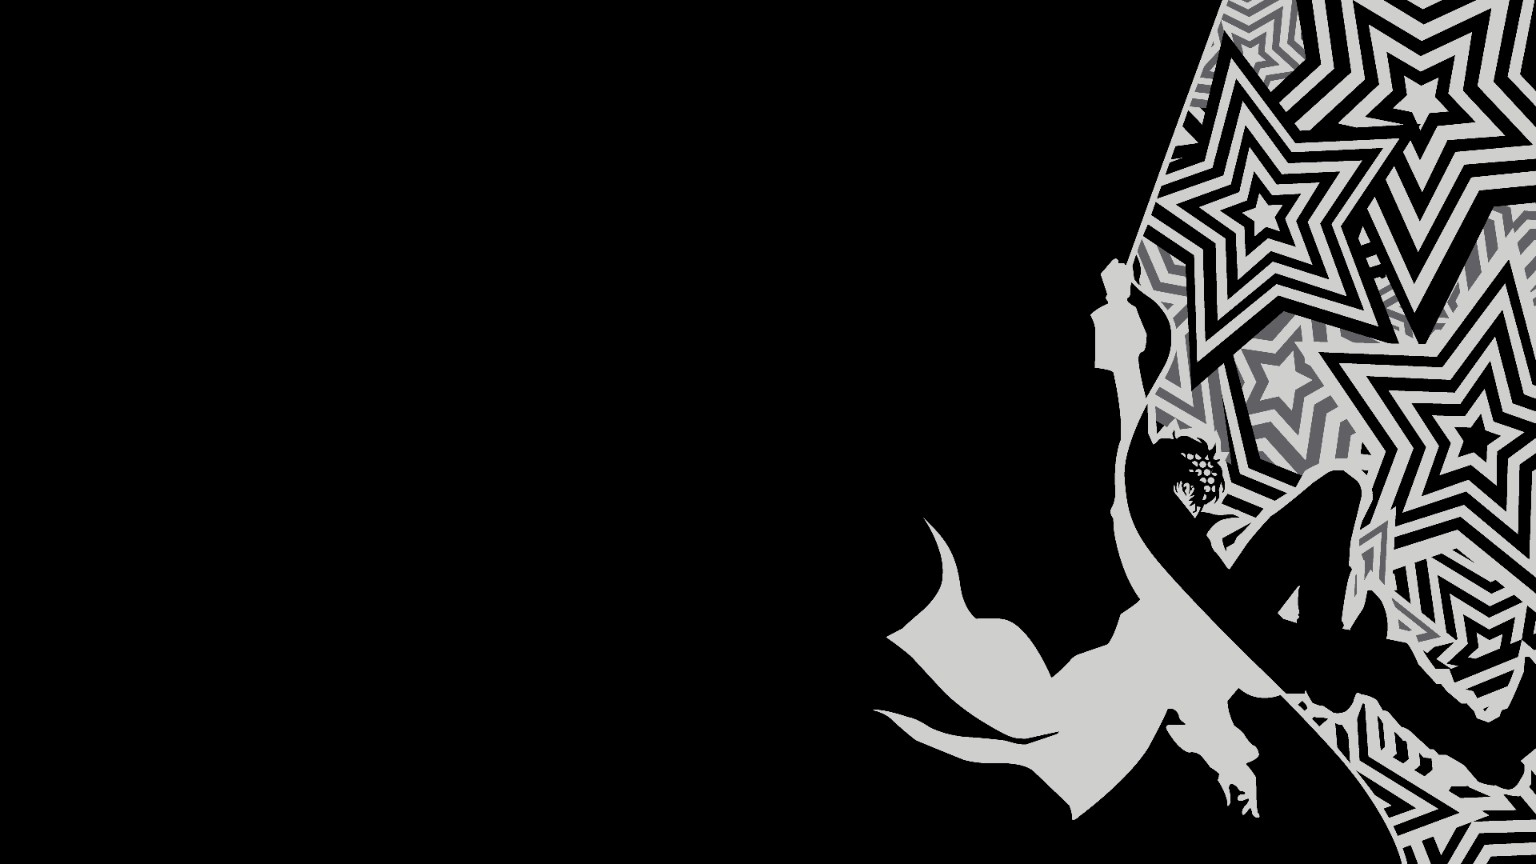
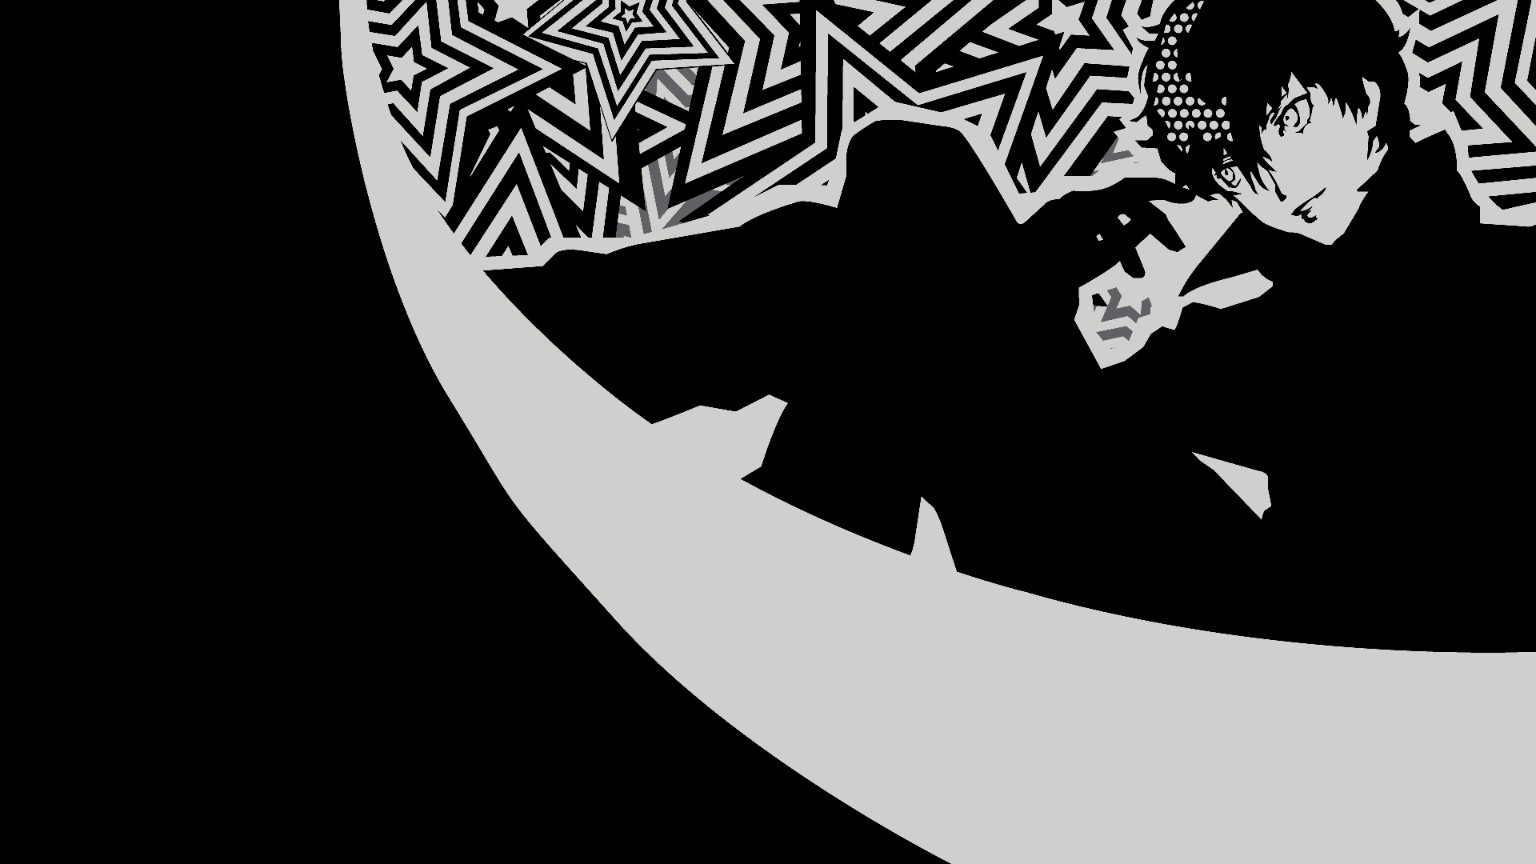
Refine P5R markers artwork and picker flow

diff --git a/app/src/main/java/com/shadowmonarchbooks/dayloop/ui/answers/AnswersScreen.kt b/app/src/main/java/com/shadowmonarchbooks/dayloop/ui/answers/AnswersScreen.kt
@@ -5,6 +5,7 @@ import androidx.compose.foundation.clickable
 import androidx.compose.foundation.layout.Arrangement
 import androidx.compose.foundation.layout.Column
 import androidx.compose.foundation.layout.Row
+import androidx.compose.foundation.layout.Spacer
 import androidx.compose.foundation.layout.fillMaxSize
 import androidx.compose.foundation.layout.fillMaxWidth
 import androidx.compose.foundation.layout.padding
@@ -26,6 +27,7 @@ import com.shadowmonarchbooks.dayloop.data.byId
 import com.shadowmonarchbooks.dayloop.data.formatDate
 import com.shadowmonarchbooks.dayloop.ui.DayloopViewModel
 import com.shadowmonarchbooks.dayloop.ui.components.AnswerKindChip
+import com.shadowmonarchbooks.dayloop.ui.components.answerKindLabel
 import com.shadowmonarchbooks.dayloop.ui.components.EmptyState
 import com.shadowmonarchbooks.dayloop.ui.components.SkinTag
 import com.shadowmonarchbooks.dayloop.ui.skin.LocalSkin
@@ -57,6 +59,7 @@ fun AnswersScreen(
         items(sheets, key = { it.id }) { sheet ->
             val skin = LocalSkin.current
             val slash = skin.hasSkin && skin.motion == "slash"
+            val kindLabel = answerKindLabel(sheet.kind)
             val cardShape = if (slash) skin.shapes.card else RoundedCornerShape(12.dp)
             Surface(
                 shape = cardShape,
@@ -83,27 +86,24 @@ fun AnswersScreen(
                     ) {
                         if (slash) {
                             SkinTag(
-                                text = skin.cased(
-                                    when (sheet.kind) {
-                                        "exam" -> "Exam"
-                                        "classQuestion" -> "Class question"
-                                        else -> sheet.kind.replaceFirstChar { it.uppercase() }
-                                    },
-                                    "display",
-                                ),
+                                text = skin.cased(kindLabel, "display"),
                                 container = MaterialTheme.colorScheme.primary,
                                 content = MaterialTheme.colorScheme.onPrimary,
                             )
                         } else {
                             AnswerKindChip(sheet.kind)
                         }
-                        Text(
-                            text = if (slash) skin.cased(sheet.label, "display") else sheet.label,
-                            style = if (slash) MaterialTheme.typography.titleMedium else MaterialTheme.typography.titleSmall,
-                            fontWeight = FontWeight.SemiBold,
-                            color = if (slash) MaterialTheme.colorScheme.onBackground else MaterialTheme.colorScheme.onSurface,
-                            modifier = Modifier.weight(1f),
-                        )
+                        if (!sheet.label.equals(kindLabel, ignoreCase = true)) {
+                            Text(
+                                text = if (slash) skin.cased(sheet.label, "display") else sheet.label,
+                                style = if (slash) MaterialTheme.typography.titleMedium else MaterialTheme.typography.titleSmall,
+                                fontWeight = FontWeight.SemiBold,
+                                color = if (slash) MaterialTheme.colorScheme.onBackground else MaterialTheme.colorScheme.onSurface,
+                                modifier = Modifier.weight(1f),
+                            )
+                        } else {
+                            Spacer(Modifier.weight(1f))
+                        }
                         Text(
                             text = formatDate(sheet.date, pack.calendar),
                             style = MaterialTheme.typography.labelMedium,

diff --git a/app/src/main/java/com/shadowmonarchbooks/dayloop/ui/AppRoot.kt b/app/src/main/java/com/shadowmonarchbooks/dayloop/ui/AppRoot.kt
@@ -1,5 +1,9 @@
 package com.shadowmonarchbooks.dayloop.ui
 
+import androidx.compose.animation.fadeIn
+import androidx.compose.animation.fadeOut
+import androidx.compose.animation.slideInVertically
+import androidx.compose.animation.core.tween
 import androidx.compose.foundation.layout.Box
 import androidx.compose.foundation.layout.fillMaxSize
 import androidx.compose.foundation.layout.padding
@@ -162,8 +166,29 @@ fun AppRoot(vm: DayloopViewModel = hiltViewModel()) {
                 modifier = Modifier
                     .padding(padding)
                     .skinBackdrop(skin, showHaze = route != "today"),
-                enterTransition = { motion.enter },
-                exitTransition = { motion.exit },
+                enterTransition = {
+                    if (
+                        initialState.destination.route == "onboarding" &&
+                        targetState.destination.route == "today"
+                    ) {
+                        fadeIn(tween(360)) + slideInVertically(
+                            initialOffsetY = { it / 12 },
+                            animationSpec = tween(360),
+                        )
+                    } else {
+                        motion.enter
+                    }
+                },
+                exitTransition = {
+                    if (
+                        initialState.destination.route == "onboarding" &&
+                        targetState.destination.route == "today"
+                    ) {
+                        fadeOut(tween(220))
+                    } else {
+                        motion.exit
+                    }
+                },
                 popEnterTransition = { motion.popEnter },
                 popExitTransition = { motion.popExit },
             ) {

diff --git a/app/src/main/java/com/shadowmonarchbooks/dayloop/ui/onboarding/OnboardingScreen.kt b/app/src/main/java/com/shadowmonarchbooks/dayloop/ui/onboarding/OnboardingScreen.kt
@@ -28,8 +28,12 @@ import androidx.compose.material3.MaterialTheme
 import androidx.compose.material3.Surface
 import androidx.compose.material3.Text
 import androidx.compose.runtime.Composable
+import androidx.compose.runtime.LaunchedEffect
 import androidx.compose.runtime.collectAsState
 import androidx.compose.runtime.getValue
+import androidx.compose.runtime.mutableStateOf
+import androidx.compose.runtime.remember
+import androidx.compose.runtime.setValue
 import androidx.compose.ui.Alignment
 import androidx.compose.ui.Modifier
 import androidx.compose.ui.draw.clip
@@ -71,6 +75,13 @@ fun OnboardingScreen(
     val packs = state.packs.sortedBy { it.pack.pickerOrder }
     val profileCounts by vm.profileCounts.collectAsState()
     val reselecting = state.selectedSlug != null
+    var pendingSelection by remember { mutableStateOf<String?>(null) }
+    LaunchedEffect(state.selectedSlug, pendingSelection) {
+        if (pendingSelection != null && state.selectedSlug == pendingSelection) {
+            pendingSelection = null
+            onStart()
+        }
+    }
     val pagerState = rememberPagerState(
         initialPage = packs.indexOfFirst { it.slug == state.selectedSlug }.coerceAtLeast(0),
         pageCount = { packs.size },
@@ -141,8 +152,10 @@ fun OnboardingScreen(
                 selected = page == pagerState.currentPage,
                 savedProfiles = profileCounts[packs[page].slug] ?: 0,
                 onSelect = {
-                    vm.selectPack(packs[page].slug)
-                    onStart()
+                    if (pendingSelection == null) {
+                        pendingSelection = packs[page].slug
+                        vm.selectPack(packs[page].slug)
+                    }
                 },
             )
         }

diff --git a/app/src/main/java/com/shadowmonarchbooks/dayloop/ui/month/MonthScreen.kt b/app/src/main/java/com/shadowmonarchbooks/dayloop/ui/month/MonthScreen.kt
@@ -464,12 +464,12 @@ private fun DayCell(
                 Text(
                     text = "TODAY",
                     style = MaterialTheme.typography.displaySmall.copy(
-                        fontSize = 15.sp,
-                        lineHeight = 17.sp,
+                        fontSize = 20.sp,
+                        lineHeight = 22.sp,
                         fontStyle = FontStyle.Normal,
                     ),
                     color = Color.Black,
-                    modifier = Modifier.padding(horizontal = 9.dp, vertical = 4.dp),
+                    modifier = Modifier.padding(horizontal = 12.dp, vertical = 5.dp),
                 )
             }
         }

diff --git a/app/src/main/java/com/shadowmonarchbooks/dayloop/ui/skin/SkinFx.kt b/app/src/main/java/com/shadowmonarchbooks/dayloop/ui/skin/SkinFx.kt
@@ -273,8 +273,8 @@ private fun MasksAdvancePanel(fx: AdvanceFx, progress: Float, background: ImageB
             Image(
                 bitmap = it,
                 contentDescription = null,
-                contentScale = ContentScale.Crop,
-                alignment = Alignment.CenterEnd,
+                contentScale = ContentScale.Fit,
+                alignment = Alignment.TopEnd,
                 modifier = Modifier.matchParentSize(),
             )
             Box(

diff --git a/.github/release-requests/v0.12.0-rc10.md b/.github/release-requests/v0.12.0-rc10.md
@@ -1,0 +1,28 @@
+# dayloop v0.12.0-rc10 — P5R visual flow polish
+
+This prerelease refines the P5R calendar and answer presentation, replaces the Day Complete artwork, and smooths the handoff from game selection into the tracker.
+
+## What changed since rc9
+
+- Enlarged the Calendar's `TODAY` marker and expanded its cutout background to fit the heavier label.
+- Removed the redundant middle `Class question` label when the kind chip already says the same thing.
+- Replaced the Day Complete graphic with the newly supplied artwork.
+- Fits the entire new graphic at the top-right of the Day Complete splash so Joker remains recognizable and fully visible.
+- Waits for the selected game pack to finish loading before leaving the picker.
+- Adds a gentle fade and short upward settle from the game picker into Today, preventing partially loaded theme elements from popping into place.
+
+## What to check
+
+- Confirm the enlarged `TODAY` marker remains legible and contained by its red cutout.
+- Confirm Class-question rows show only one `Class question` label and keep their date aligned right.
+- Tap END DAY and confirm the replacement graphic is visible at the top-right with all of Joker in frame.
+- Select each game from the picker and confirm its Today screen, background, and navigation chrome arrive together without flashing or snapping.
+- Confirm Settings reports `Dayloop v0.12.0-rc10`.
+
+## Candidate APK notes
+
+- This APK is **not production-signed**. It uses Android's standard debug signing key for hands-on testing.
+- Its application id is `com.shadowmonarchbooks.dayloop.candidate`, so it can be installed alongside the production Dayloop app.
+- Version: `0.12.0-rc10` (`versionCode 23`).
+
+_Fan-made tool, not affiliated with or endorsed by ATLUS/SEGA._
